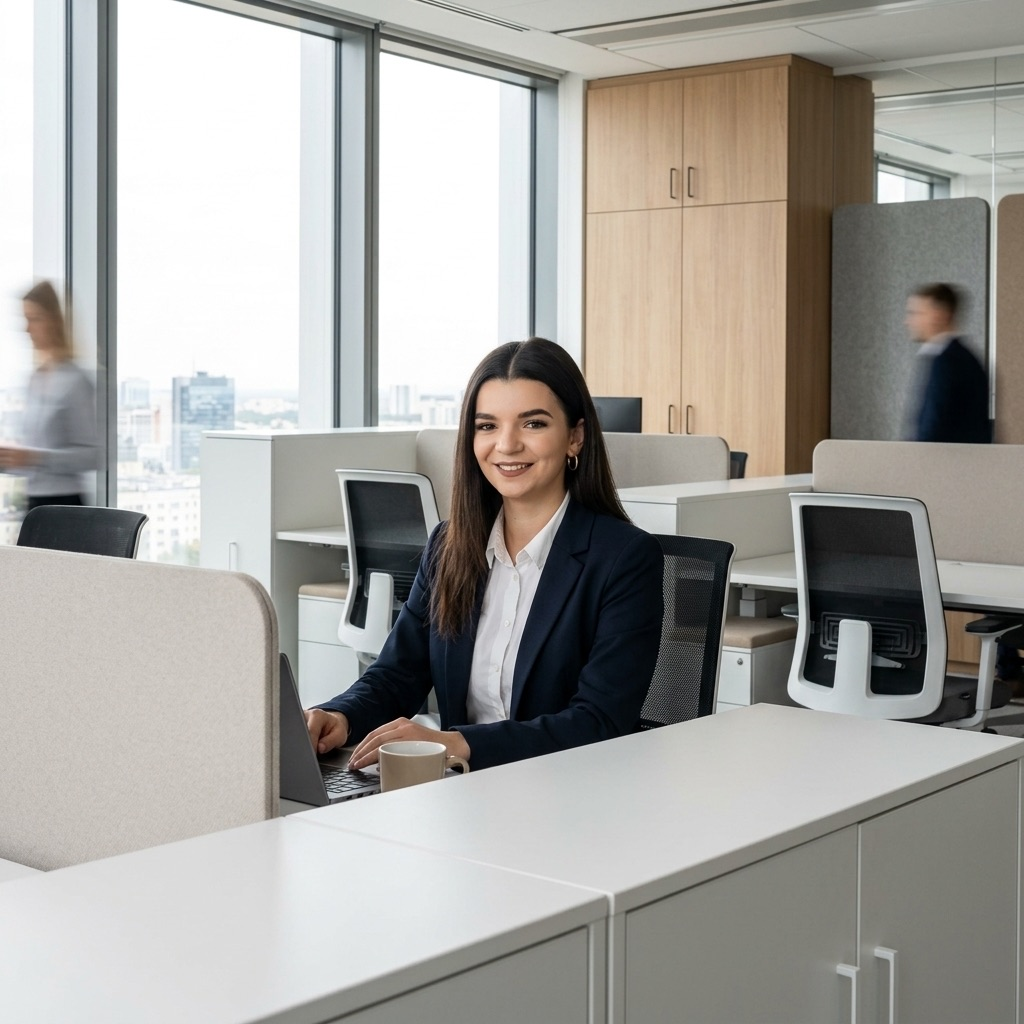
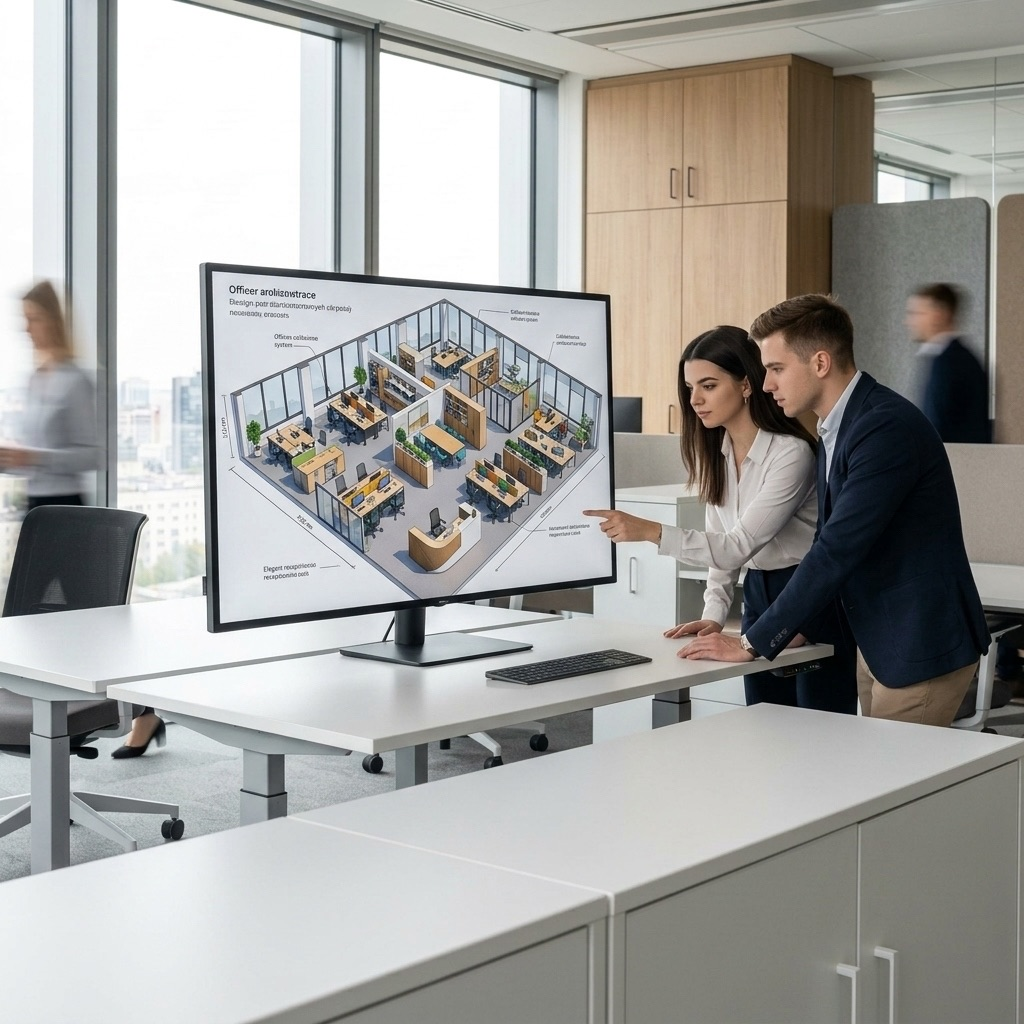
UpdateFoto

diff --git a/src/index.css b/src/index.css
@@ -4,13 +4,27 @@
 
 @theme {
   --font-sans: 'Inter', -apple-system, BlinkMacSystemFont, 'Segoe UI', Roboto, Oxygen, Ubuntu, Cantarell, sans-serif;
-  --color-primary-50: #f0f5ff;
-  --color-primary-100: #e0eaff;
-  --color-primary-600: #1d4ed8;
-  --color-primary-700: #1d4ed8;
-  --color-primary-800: #1e40af;
-  --color-primary-900: #1e3a8a;
-  --color-accent: #1e3a8a;
+  
+  /* Primary brand colors (mahogany brown-red like the logo) */
+  --color-primary-50: #faf2f2;
+  --color-primary-100: #f5dfdf;
+  --color-primary-600: #731b1c;
+  --color-primary-700: #731b1c;
+  --color-primary-800: #5c1314;
+  --color-primary-900: #470b0c;
+  --color-accent: #731b1c;
+
+  /* Overriding default blue to the logo's brand colors */
+  --color-blue-50: #faf2f2;
+  --color-blue-100: #f5dfdf;
+  --color-blue-200: #e2b4b5;
+  --color-blue-300: #c05b5d;
+  --color-blue-400: #a63a3c;
+  --color-blue-500: #8c2425;
+  --color-blue-600: #731b1c;
+  --color-blue-700: #731b1c;
+  --color-blue-800: #5c1314;
+  --color-blue-900: #470b0c;
 }
 
 html {

diff --git a/src/components/Hero.jsx b/src/components/Hero.jsx
@@ -67,7 +67,7 @@ export default function Hero() {
             <div className="mt-4">
               <button
                 onClick={() => handleScrollToSection('szafy')}
-                className="w-full sm:w-auto inline-flex items-center justify-center px-5 py-4 border-2 border-blue-600 text-sm font-bold rounded-xl text-blue-700 bg-white hover:bg-blue-50 active:bg-blue-100 transition-all duration-200 cursor-pointer transform hover:-translate-y-0.5"
+                className="w-full sm:w-auto inline-flex items-center justify-center px-5 py-4 border border-transparent text-sm font-bold rounded-xl text-white bg-blue-600 hover:bg-blue-700 active:bg-blue-800 shadow-md shadow-blue-200/50 hover:shadow-lg transition-all duration-200 cursor-pointer transform hover:-translate-y-0.5"
               >
                 Stwórz szafę wnękową
                 <svg xmlns="http://www.w3.org/2000/svg" className="h-5 w-5 ml-2" fill="none" viewBox="0 0 24 24" stroke="currentColor" strokeWidth={2}>
@@ -82,13 +82,13 @@ export default function Hero() {
                 <svg className="h-5 w-5 text-green-500" fill="none" viewBox="0 0 24 24" stroke="currentColor" strokeWidth={3}>
                   <path strokeLinecap="round" strokeLinejoin="round" d="M5 13l4 4L19 7" />
                 </svg>
-                Bezpłatny pomiar & projekt
+                Bezpłatny pomiar i projekt
               </div>
               <div className="flex items-center gap-2 text-xs sm:text-sm text-slate-600 font-semibold">
                 <svg className="h-5 w-5 text-green-500" fill="none" viewBox="0 0 24 24" stroke="currentColor" strokeWidth={3}>
                   <path strokeLinecap="round" strokeLinejoin="round" d="M5 13l4 4L19 7" />
                 </svg>
-                Polskie meble i komponenty
+                Polskie meble i wysokiej jakości komponenty
               </div>
             </div>
           </div>

diff --git a/src/components/AboutUs.jsx b/src/components/AboutUs.jsx
@@ -16,7 +16,7 @@ export default function AboutUs() {
               Nowoczesna produkcja, osobiste podejście
             </h2>
             <p className="text-lg text-slate-600 leading-relaxed">
-              Jako rodzinna fabryka mebli prowadzona przez Dariusza Murawskiego w Jakubowie pod Warszawą, łączymy wieloletnie doświadczenie z precyzją nowoczesnego parku maszynowego. Specjalizujemy się w trwałych konstrukcjach tworzonych z wysokiej jakości laminatów oraz solidnych elementów ze stali. W naszej ofercie znajdziesz zarówno sprawdzone meble systemowe, które pozwalają na elastyczną aranżację przestrzeni, jak i realizacje tworzone w pełni na wymiar. Niezależnie od wybranej opcji, każda szafa, biurko czy lada recepcyjna to owoc osobistej rozmowy z Klientem, precyzyjnego pomiaru i dbałości o każdy detal.
+              Jako rodzinna fabryka mebli, w której z pasją tworzymy każdy projekt, łączymy wieloletnie doświadczenie z precyzją nowoczesnego parku maszynowego. Specjalizujemy się w trwałych konstrukcjach tworzonych z wysokiej jakości laminatów oraz solidnych elementów ze stali. W naszej ofercie znajdziesz zarówno sprawdzone meble systemowe, które pozwalają na elastyczną aranżację przestrzeni, jak i realizacje tworzone w pełni na wymiar. Niezależnie od wybranej opcji, każda szafa, biurko czy lada recepcyjna to owoc osobistej rozmowy z Klientem, precyzyjnego pomiaru i dbałości o detale.
             </p>
 
             {/* Core Benefits List */}

diff --git a/src/components/FloatingCTA.jsx b/src/components/FloatingCTA.jsx
@@ -18,7 +18,7 @@ export default function FloatingCTA() {
   return (
     <button
       onClick={handleClick}
-      className="fixed bottom-4 right-4 sm:bottom-6 sm:right-6 z-40 inline-flex items-center justify-center gap-2 px-5 py-3.5 sm:px-6 sm:py-4 bg-blue-600 hover:bg-blue-700 active:bg-blue-800 text-white text-xs sm:text-sm font-extrabold rounded-full shadow-lg shadow-blue-500/20 hover:shadow-xl active:scale-95 transition-all duration-200 transform cursor-pointer border border-blue-500/10"
+      className="fixed bottom-4 right-4 sm:bottom-6 sm:right-6 z-40 inline-flex items-center justify-center gap-2 px-5 py-3.5 sm:px-6 sm:py-4 bg-amber-500 hover:bg-amber-600 active:bg-amber-700 text-blue-900 text-xs sm:text-sm font-extrabold rounded-full shadow-lg shadow-amber-500/20 hover:shadow-xl active:scale-95 transition-all duration-200 transform cursor-pointer border border-amber-500/10"
       aria-label="Zamów bezpłatny pomiar i projekt"
     >
       <svg xmlns="http://www.w3.org/2000/svg" className="h-4 w-4 sm:h-5 sm:w-5" fill="none" viewBox="0 0 24 24" stroke="currentColor" strokeWidth={2.5}>

diff --git a/src/components/Footer.jsx b/src/components/Footer.jsx
@@ -41,7 +41,6 @@ export default function Footer() {
               Rodzinna fabryka mebli z Jakubowa. Od projektu po precyzyjny montaż — tworzymy piękno w Twoim domu i funkcjonalność w Twoim biurze.
             </p>
             <div className="text-sm text-slate-600 font-semibold space-y-1.5 pt-2">
-              <p>Właściciel: Dariusz Murawski</p>
               <p>Adres: Przedewsie 12, 05-306 Jakubów</p>
               <p>NIP: 8221216168</p>
             </div>
@@ -71,7 +70,6 @@ export default function Footer() {
               <a href="/#kuchnie" onClick={(e) => handleScrollToSection(e, '/#kuchnie')} className="text-slate-500 hover:text-blue-600 font-medium">Kuchnie</a>
               <a href="/#szafy" onClick={(e) => handleScrollToSection(e, '/#szafy')} className="text-slate-500 hover:text-blue-600 font-medium">Szafy</a>
               <a href="/#o-nas" onClick={(e) => handleScrollToSection(e, '/#o-nas')} className="text-slate-500 hover:text-blue-600 font-medium">O nas</a>
-              <a href="/#kontakt" onClick={(e) => handleScrollToSection(e, '/#kontakt')} className="text-slate-500 hover:text-blue-600 font-medium">Kontakt</a>
             </div>
           </div>
 